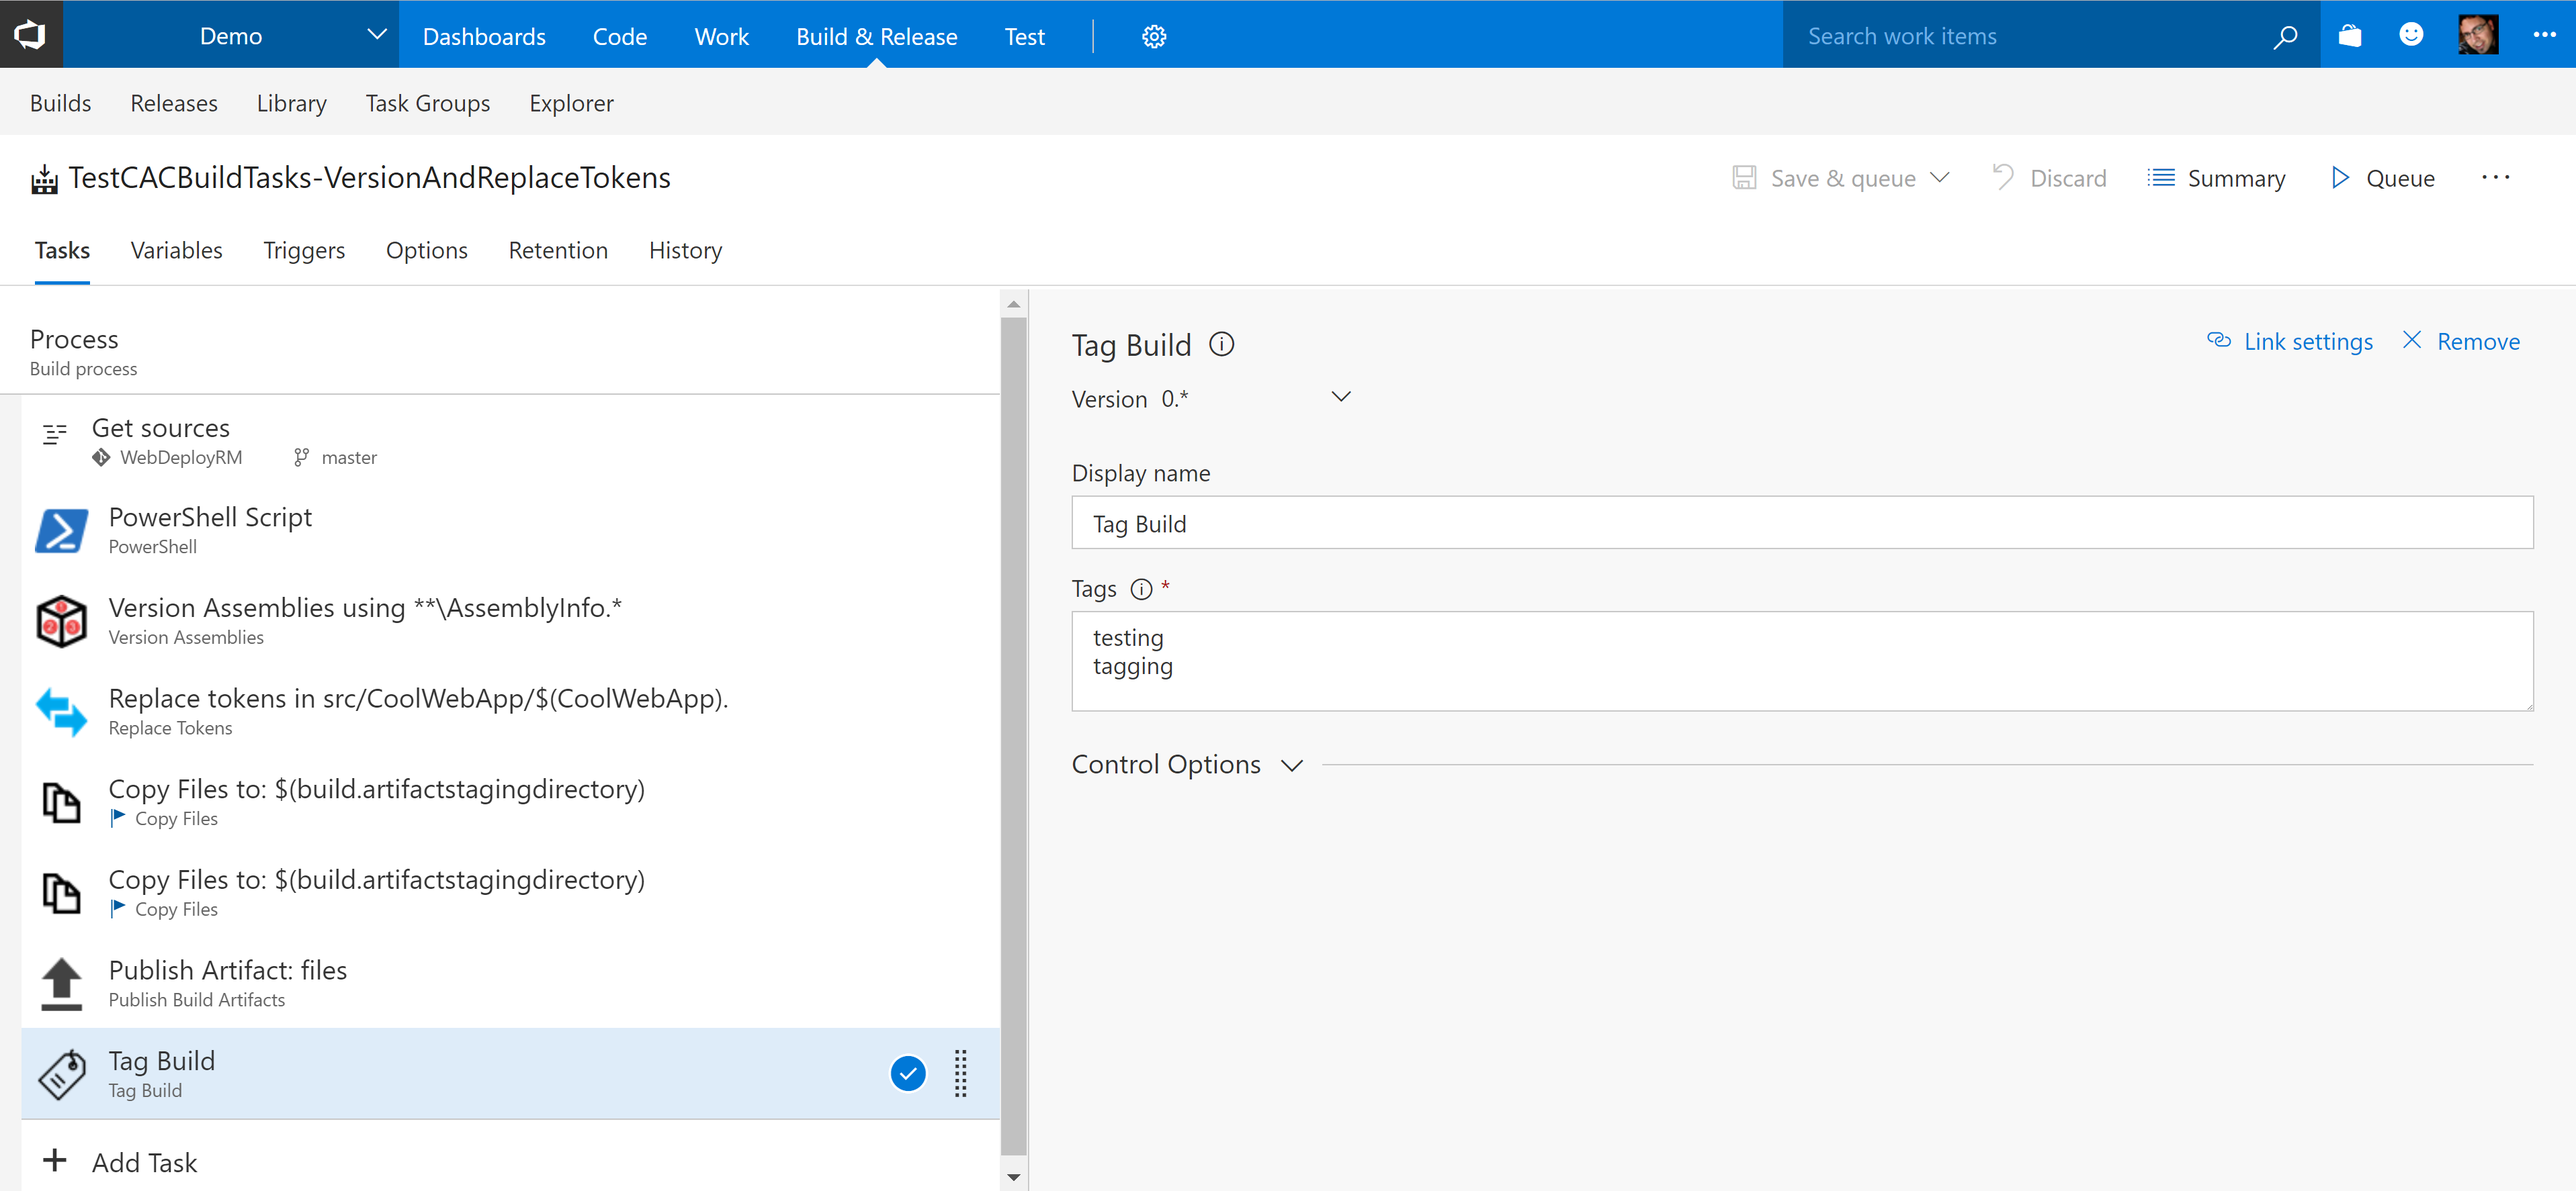
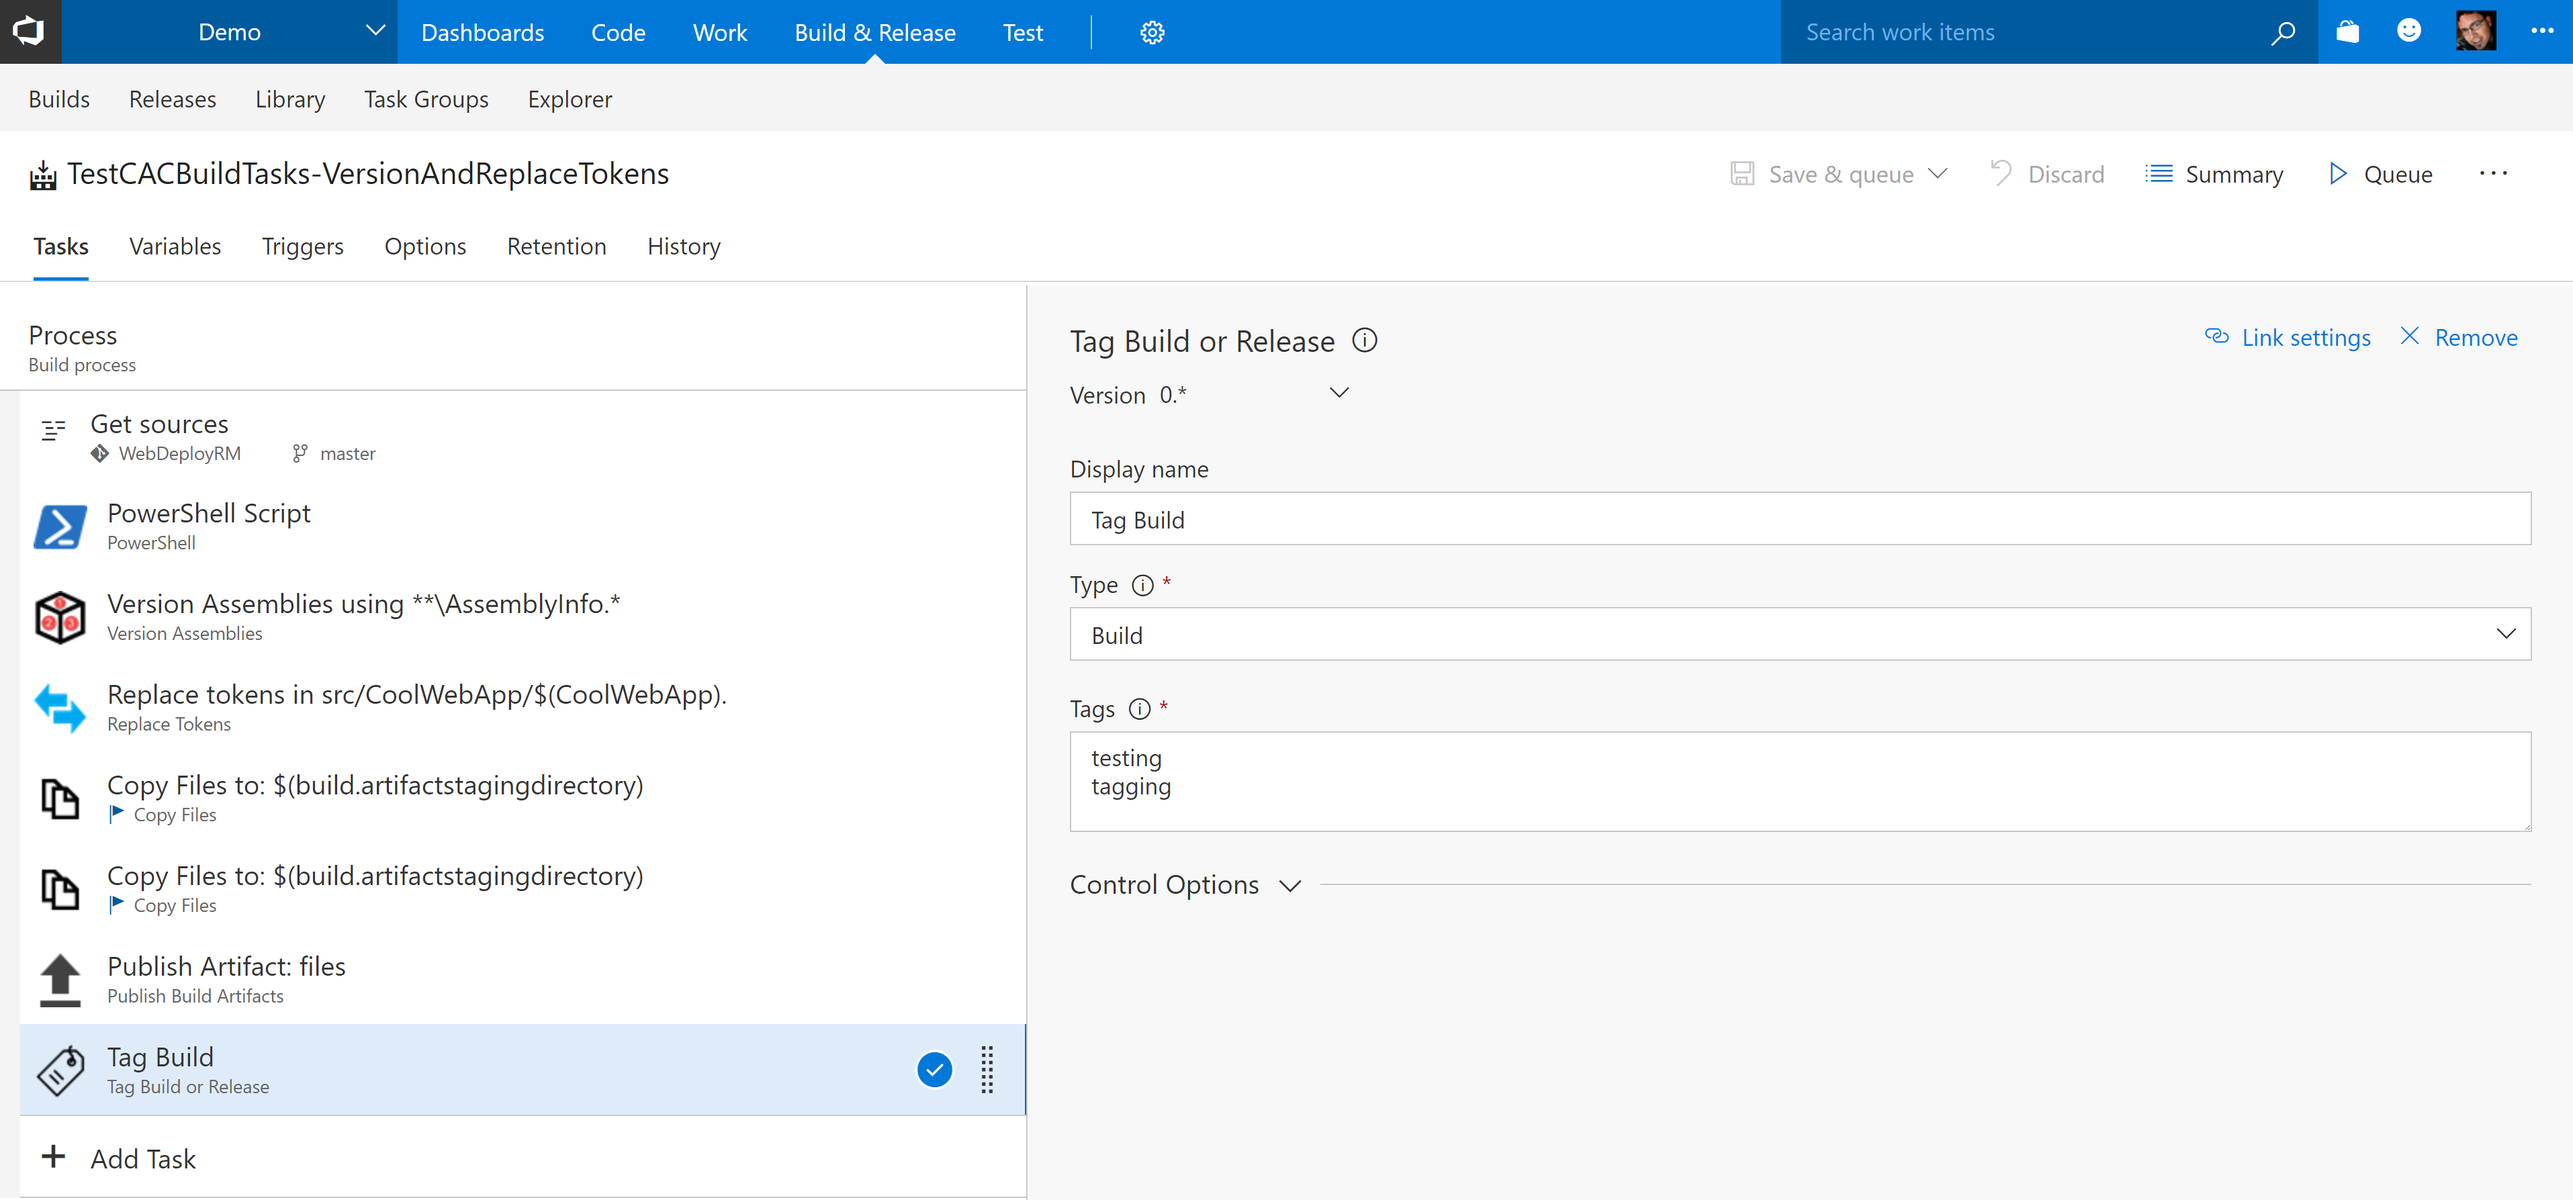
Fixing docs and task.json field type

diff --git a/extension-overview.md b/extension-overview.md
@@ -33,7 +33,7 @@ This extension contains helpful build and release Tasks.
 
 ![Build Status](https://colinsalmcorner.visualstudio.com/_apis/public/build/definitions/34532943-412e-4dac-b314-a87833e22dd8/22/badge)
 
-### 1.1.130
+### 1.1.143
 - Added new TagBuild task
 
 ### 1.1.119
